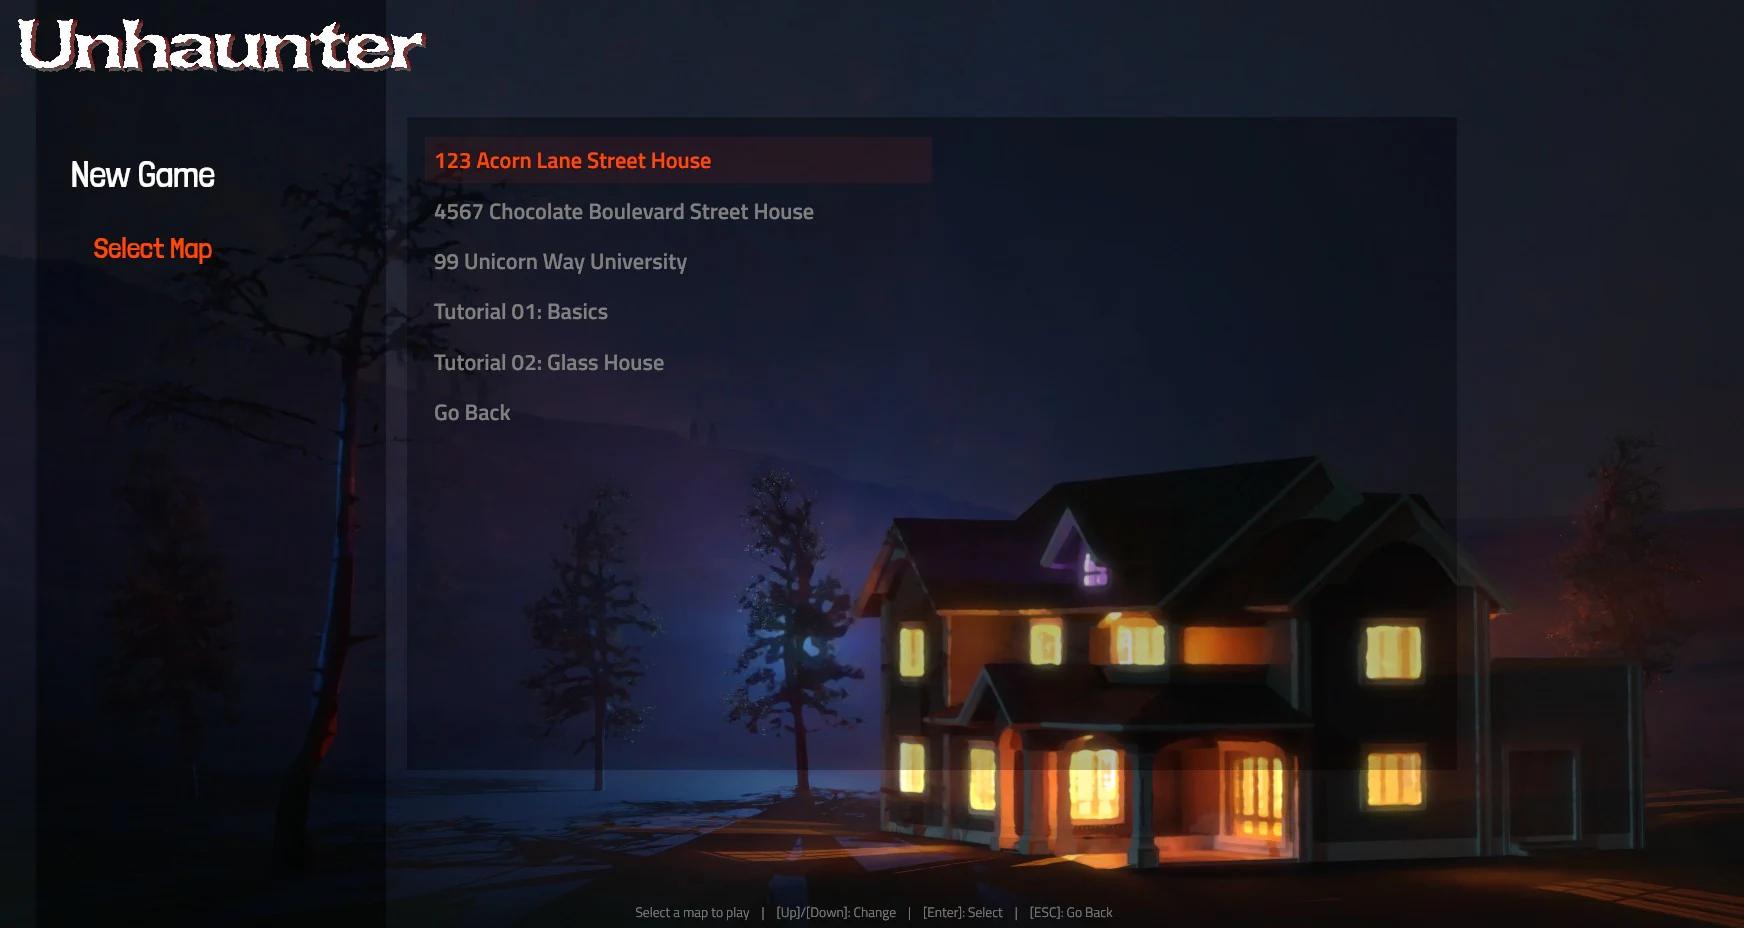
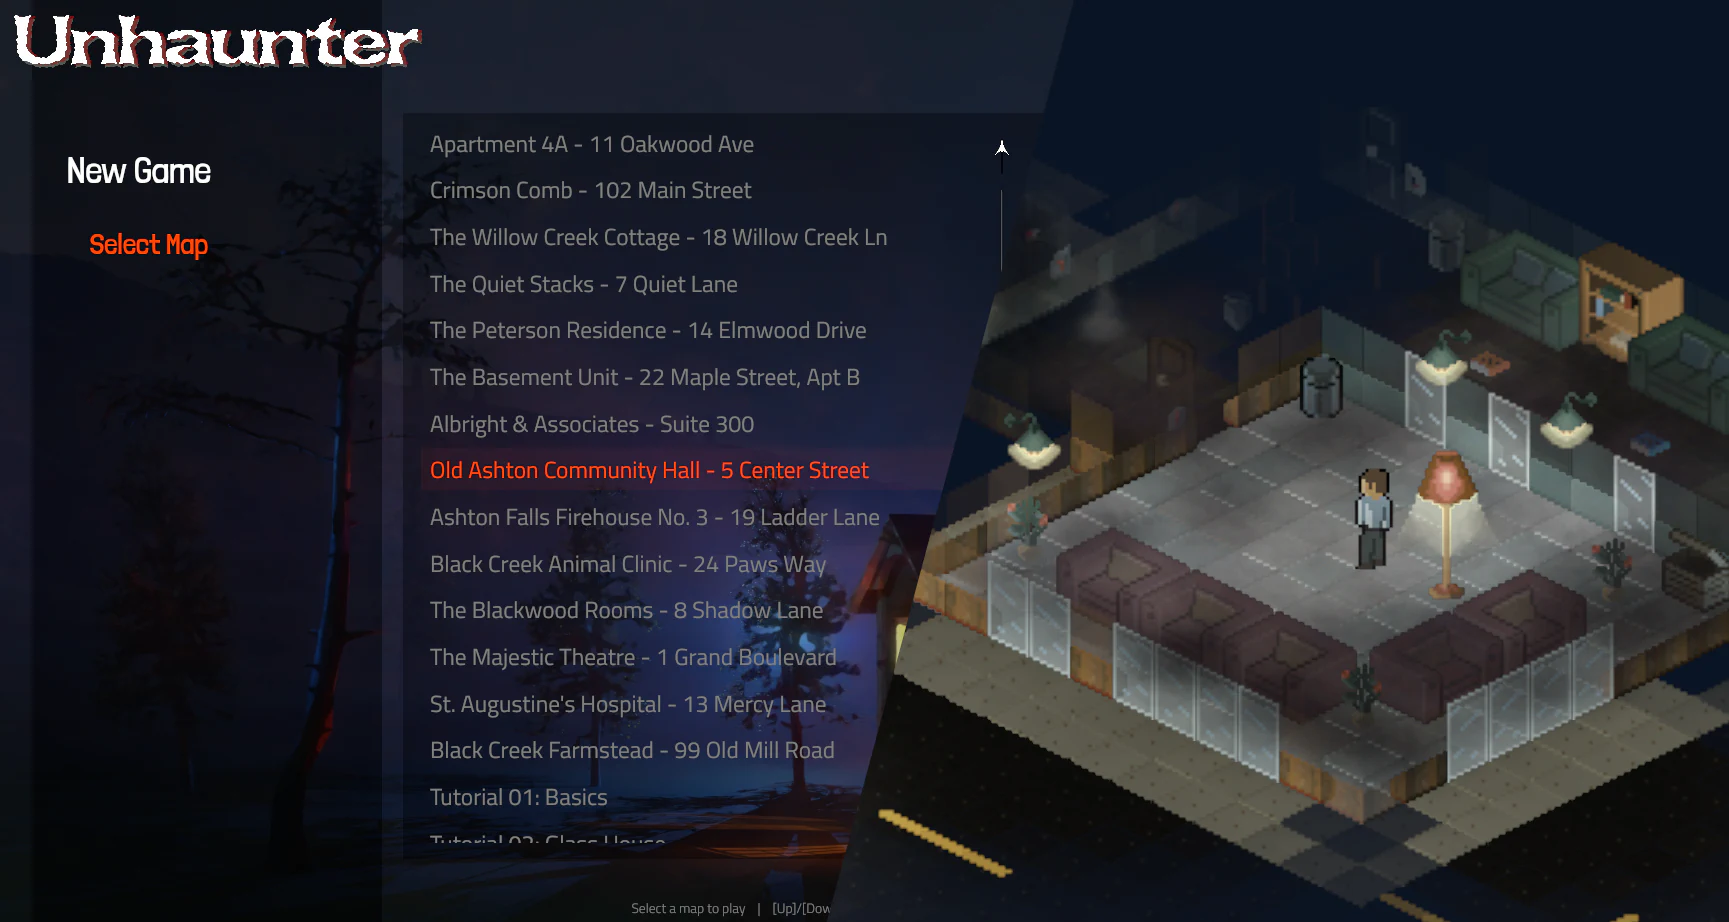
Add prerelease v0.3.0-beta3

diff --git a/content/pages/beta.md b/content/pages/beta.md
@@ -4,10 +4,14 @@ path = "beta"
 template = "beta.html"
 [extra]
 beta_available = true
-beta_version = "v0.3.0-beta2.1"
+beta_version = "v0.3.0-beta3"
 +++
 
 ## New shiny things to test!
+
+**Beta 3**
+
+* 15 New maps! Can you conquer all of them?
 
 **Fix: Beta 2.1**
 
